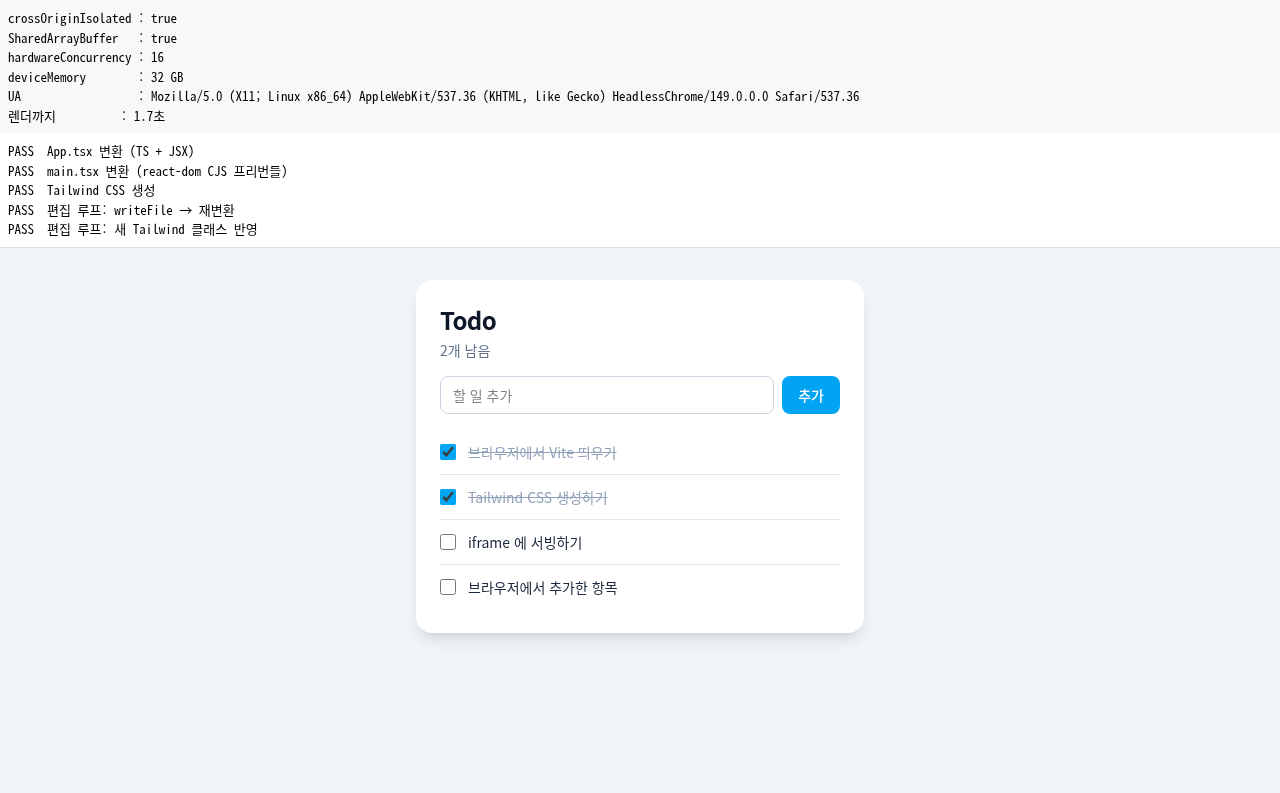
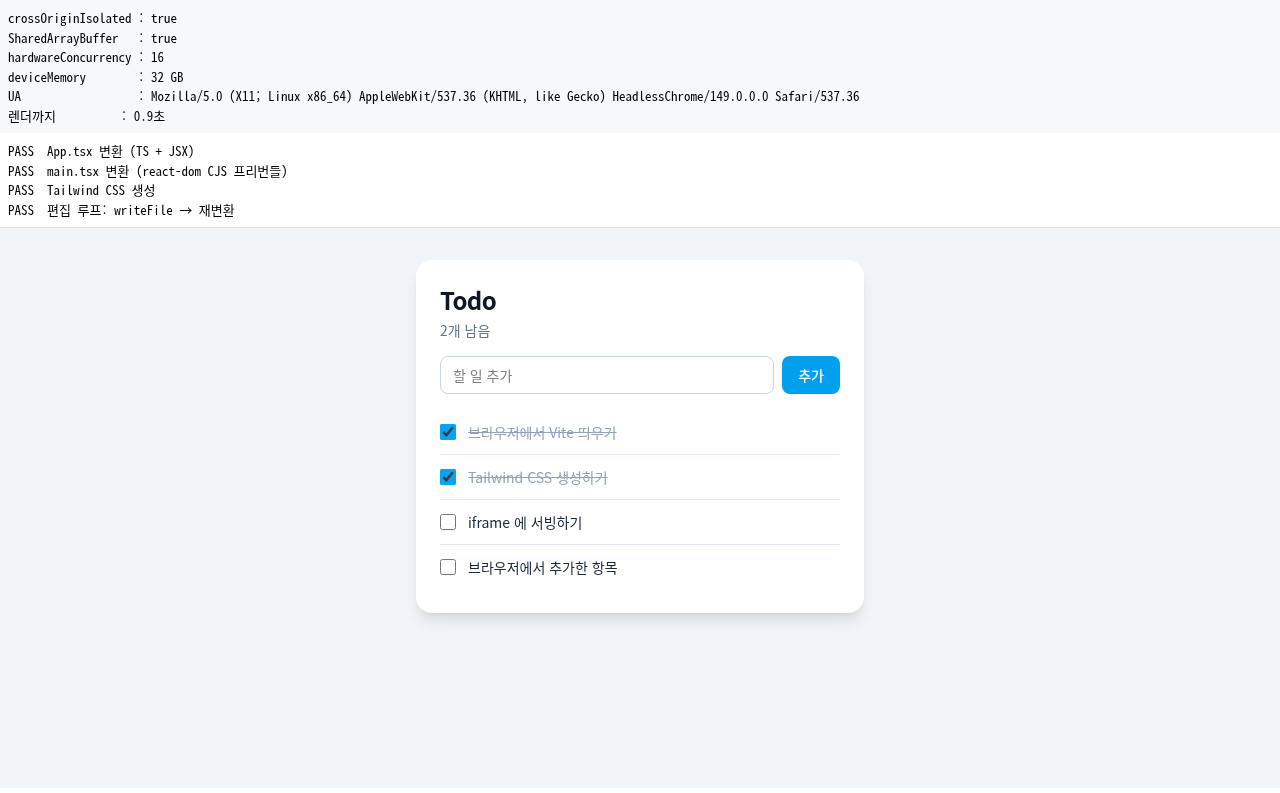
이름 변경: browser-webapp-runtime → web-toolchain-in-browser (v0.1.0)
Vite 를 이름에 박지 않는다 — 나중에 rspack 등으로 확장할 때 거짓이 되므로.
그렇다고 webapp-in-browser 도 아니다: `X-in-browser` 는 "X 가 원래 브라우저에
없는데 이제 있다" 로 읽히는데 **웹앱은 원래 브라우저에서 돈다.** 새로운 건 앱이
도는 게 아니라 **빌드 툴체인이 도는 것**이다. web-toolchain-in-browser 는
그 둘을 다 만족한다 — 정확하고, 번들러에 종속되지 않고, 나중에 패키지 설치기나
타입 체커를 붙여도 참이다.

플러그인 식별자도 같이 바뀜 (web-toolchain-in-browser:tailwind 등).
회귀 없음: 앱 렌더 1.1초, JSR dry run 통과.

Changed region(s): [[0.3125, 0.3632, 0.6875, 0.7869], [0.5938, 0.4237, 0.6562, 0.5448], [0.0, 0.2724, 0.2188, 0.3026]]

diff --git a/src/runtime.ts b/src/runtime.ts
@@ -5,9 +5,9 @@
  *
  * ```ts
  * // my-worker.ts
- * import '@rycont/browser-webapp-runtime/shims/globals'   // ← 반드시 제일 먼저
- * import { createBrowserRuntime } from '@rycont/browser-webapp-runtime/runtime'
- * import { serveWorker } from '@rycont/browser-webapp-runtime/runtime'
+ * import '@rycont/web-toolchain-in-browser/shims/globals'   // ← 반드시 제일 먼저
+ * import { createBrowserRuntime } from '@rycont/web-toolchain-in-browser/runtime'
+ * import { serveWorker } from '@rycont/web-toolchain-in-browser/runtime'
  * import inlinedPackages from 'virtual:inlined-packages'
  * import vitePkg from 'vite/package.json'
  * import clientMjs from 'vite/dist/client/client.mjs?raw'

diff --git a/src/inline-packages-plugin.ts b/src/inline-packages-plugin.ts
@@ -17,7 +17,7 @@
  *
  * ```ts
  * // vite.config.ts (워커 번들 빌드용)
- * import { inlinePackages } from '@rycont/browser-webapp-runtime/inline-packages-plugin'
+ * import { inlinePackages } from '@rycont/web-toolchain-in-browser/inline-packages-plugin'
  * export default { plugins: [inlinePackages(['react', 'react-dom', 'tailwindcss'])] }
  * ```
  *
@@ -83,7 +83,7 @@ export function inlinePackages(
   from: string = import.meta.url,
 ): InlinePackagesPlugin {
   return {
-    name: 'browser-webapp-runtime:inline-packages',
+    name: 'web-toolchain-in-browser:inline-packages',
     resolveId(id: string) {
       return id === VIRTUAL_ID ? RESOLVED_ID : undefined
     },

diff --git a/src/mod.ts b/src/mod.ts
@@ -1,11 +1,11 @@
 /**
- * browser-webapp-runtime — Vite 8 + React + Tailwind + TypeScript 앱을
+ * web-toolchain-in-browser — Vite 8 + React + Tailwind + TypeScript 앱을
  * 브라우저 안에서 돌린다. 서버 없이.
  *
  * 두 쪽으로 나뉜다:
  *   - 워커: `createBrowserRuntime()` + `serveWorker()`  (`./runtime.ts`)
  *   - 페이지: `createPreview()`                          (`./preview.ts`)
- *   - SW 엔트리: `import '@rycont/browser-webapp-runtime/sw'`
+ *   - SW 엔트리: `import '@rycont/web-toolchain-in-browser/sw'`
  *
  * 빌드 설정에는 `nodeShimAlias()` / `nodeShimDefine()` / `inlinePackages()` 를 쓴다.
  * ⚠️ 플러그인은 `worker.plugins` 에도 넣어야 한다 — 워커 번들은 파이프라인이 별도다.

diff --git a/src/alias.ts b/src/alias.ts
@@ -63,7 +63,7 @@ function rolldownBrowserDist(file: string): string {
  * `node:fs` 가 `node:fs/promises` 를 먼저 삼켜버린다. 긴 것부터 넣어야 한다.
  *
  * ```js
- * import { nodeShimAlias } from '@rycont/browser-webapp-runtime/alias'
+ * import { nodeShimAlias } from '@rycont/web-toolchain-in-browser/alias'
  *
  * export default {
  *   resolve: { alias: nodeShimAlias(), conditions: ['browser', 'import', 'default'] },

diff --git a/src/patch-rolldown-wasm.ts b/src/patch-rolldown-wasm.ts
@@ -115,7 +115,7 @@ export function patchRolldownWasm(
   const target = `${distDir}/rolldown-binding.wasi-browser.js`
 
   return {
-    name: 'browser-webapp-runtime:patch-rolldown-wasm',
+    name: 'web-toolchain-in-browser:patch-rolldown-wasm',
     enforce: 'pre',
     load(id: string) {
       if (id.split('?')[0] !== target) return undefined

diff --git a/src/preview.ts b/src/preview.ts
@@ -12,7 +12,7 @@
  * ## 사용
  *
  * ```ts
- * import { createPreview } from '@rycont/browser-webapp-runtime/preview'
+ * import { createPreview } from '@rycont/web-toolchain-in-browser/preview'
  *
  * const preview = await createPreview({
  *   worker: new Worker(new URL('./my-worker.ts', import.meta.url), { type: 'module' }),

diff --git a/src/sw.ts b/src/sw.ts
@@ -5,7 +5,7 @@
  *
  * ```js
  * // my-sw.js  (별도 엔트리로 빌드해서 루트에 배치)
- * import '@rycont/browser-webapp-runtime/sw'
+ * import '@rycont/web-toolchain-in-browser/sw'
  * ```
  *
  * 서버는 `Service-Worker-Allowed: /` 를 보내야 루트 스코프로 등록된다.

diff --git a/src/tailwind.ts b/src/tailwind.ts
@@ -141,7 +141,7 @@ export interface TailwindBrowserPlugin {
 export function tailwindBrowser(options: TailwindBrowserOptions): TailwindBrowserPlugin {
   const { root } = options
   return {
-    name: 'browser-webapp-runtime:tailwind',
+    name: 'web-toolchain-in-browser:tailwind',
     async transform(code: string, id: string) {
       const path = id.split('?')[0]
       if (!path.endsWith('.css')) return undefined